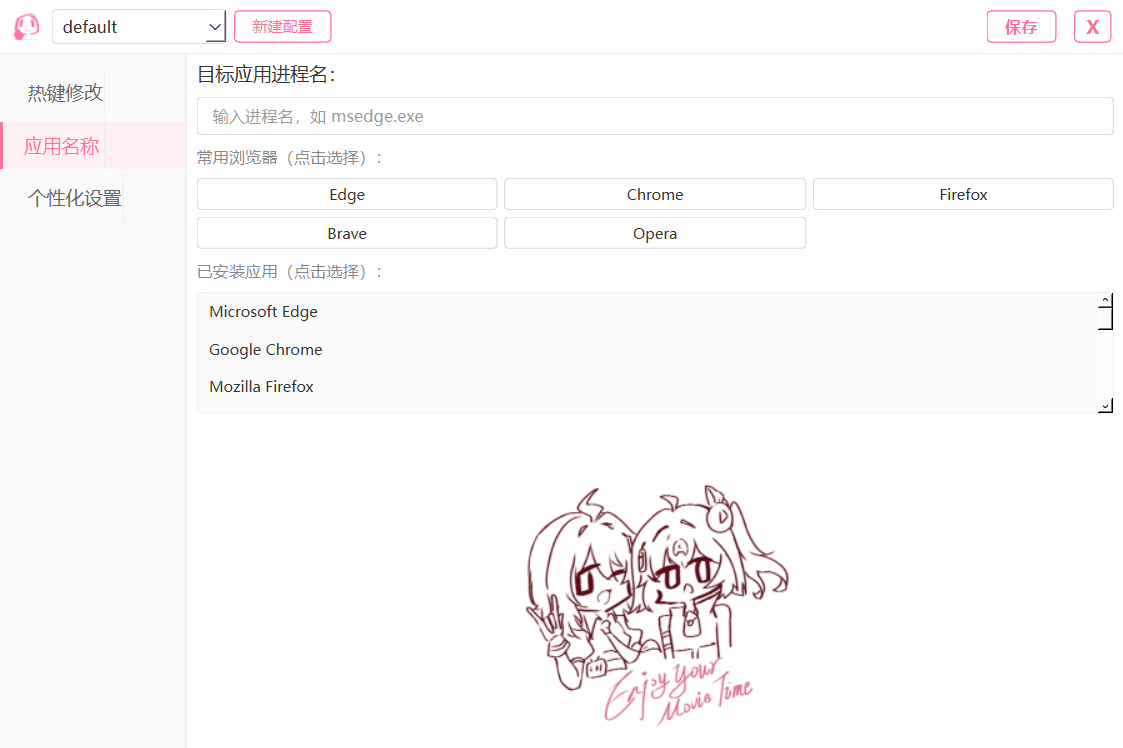
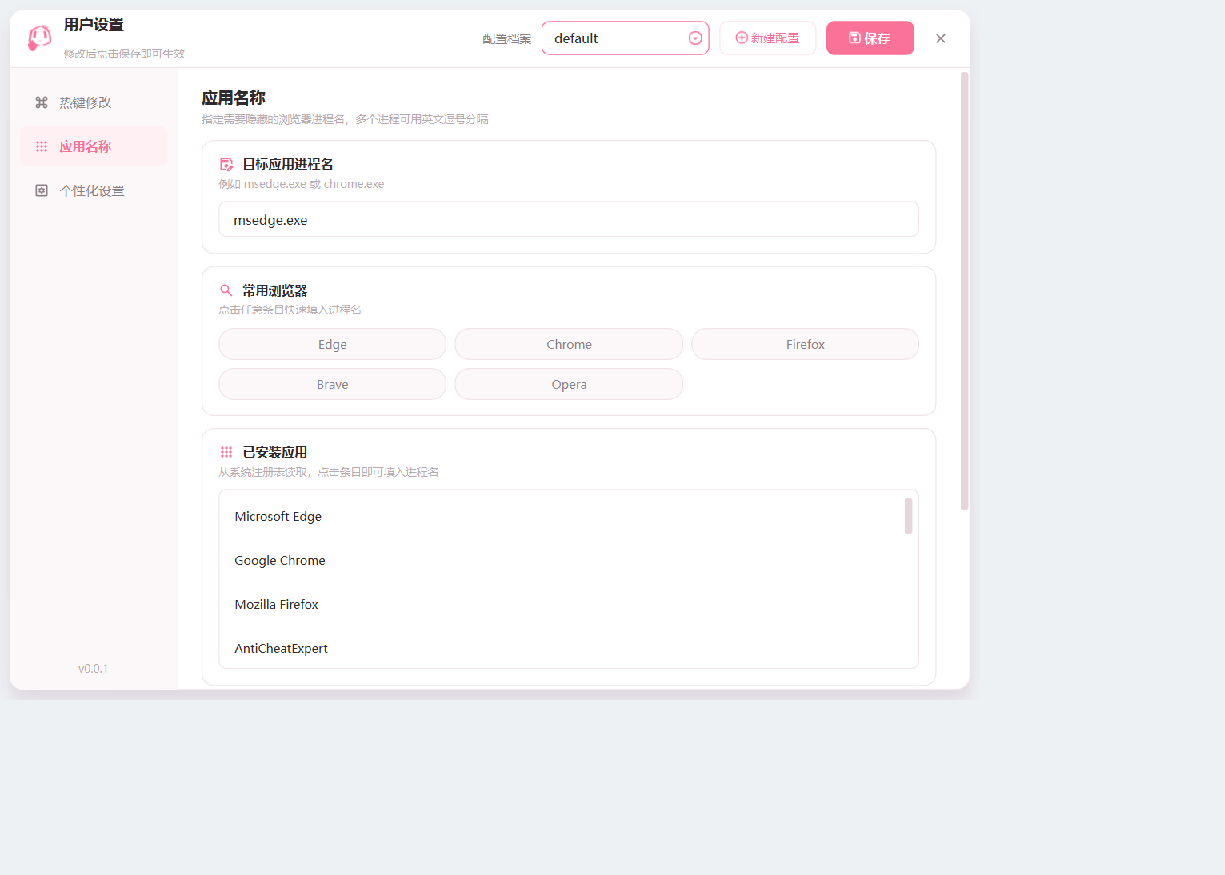
更新 README：新的运行截图与版本信息
- 按新界面重新生成托盘菜单、开始监听、三个设置页截图
- 新增关于界面截图
- 截图区改为分节说明，标注每张图对应的界面
- 功能列表补充界面说明，项目结构补充 theme/widgets/version 等文件
- 版本区更新到 v0.0.1

diff --git a/README.md b/README.md
@@ -1,4 +1,4 @@
-# ClassMovieEasyWatch
+# ClassMovieEasyWatch
 
 课堂观影一键隐藏 / 还原工具。支持全局热键和鼠标点击触发两种触发方式。
 
@@ -8,14 +8,29 @@
 ---
 ## 运行截图
 
-![](ReadMeNeed/MenuP.png)  
->菜单栏
-![](ReadMeNeed/StartP.png)  
->开始监听
-![](ReadMeNeed/KeyP.png)  
-![](ReadMeNeed/SettingP.png)  
-![](ReadMeNeed/exeP.png)  
->设置界面
+**托盘菜单**
+
+![](ReadMeNeed/MenuP.png)
+
+**开始监听**
+
+![](ReadMeNeed/StartP.png)
+
+**设置界面 · 热键修改**
+
+![](ReadMeNeed/KeyP.png)
+
+**设置界面 · 应用名称**
+
+![](ReadMeNeed/exeP.png)
+
+**设置界面 · 个性化设置**
+
+![](ReadMeNeed/SettingP.png)
+
+**关于界面**
+
+![](ReadMeNeed/AboutP.png)
 
 ## 功能
 
@@ -25,6 +40,7 @@
 - 配置热加载，设置保存后即时生效
 - 多配置档案，自定义热键、浏览器、热区
 - 系统托盘，预飞检查，Toast 提示
+- 无边框圆角卡片界面，图标全部来自项目内置矢量素材
 
 ## 依赖
 
@@ -101,19 +117,24 @@ ClassMovieEasyWatch/
 │   ├── browser_finder.py
 │   ├── hotkey_listener.py
 │   ├── data_manager.py
-│   └── path_utils.py
+│   ├── path_utils.py
+│   └── version.py              # 版本号
 ├── GUI/                        # GUI 组件
-│   ├── toast.py
-│   ├── StartWindow.py
-│   ├── FloatingButton.py
-│   ├── AboutWindow.py
-│   ├── SettingMainScroll.py
-│   └── Art/
-├── SettingWindow.py
+│   ├── theme.py                # 主题、样式表与矢量图标
+│   ├── widgets.py              # 侧边栏导航等公共组件
+│   ├── toast.py                # Toast 提示
+│   ├── StartWindow.py          # 开始窗口
+│   ├── FloatingButton.py       # 热区触发与高亮浮层
+│   ├── AboutWindow.py          # 关于窗口
+│   ├── SettingMainScroll.py    # 设置页内容
+│   └── Art/                    # 插画素材与矢量图标
+├── SettingWindow.py            # 设置窗口
 ├── SaveData/default.json       # 配置模板
 └── About/                      # 关于页面
 ```
 
 ## 版本
 
-[v0.0.0](https://github.com/Imgreenhand/ClassMovieEasyWatch/releases) (2026-08) — 初始版本发布
+[v0.0.1](https://github.com/Imgreenhand/ClassMovieEasyWatch/releases) (2026-10) — 界面重构：统一主题、矢量图标、圆角卡片窗口
+
+[v0.0.0](https://github.com/Imgreenhand/ClassMovieEasyWatch/releases/tag/0.0.0) — 初始版本发布
